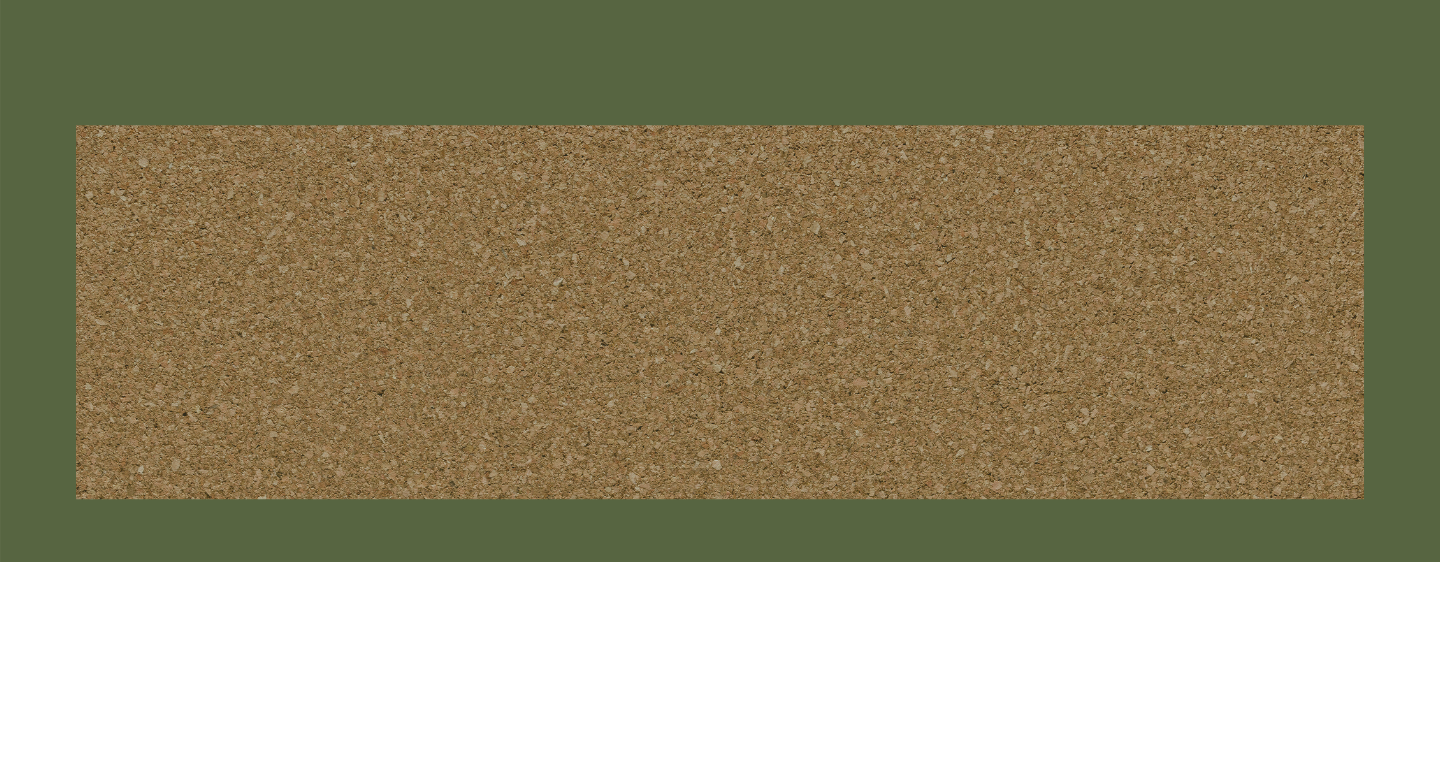
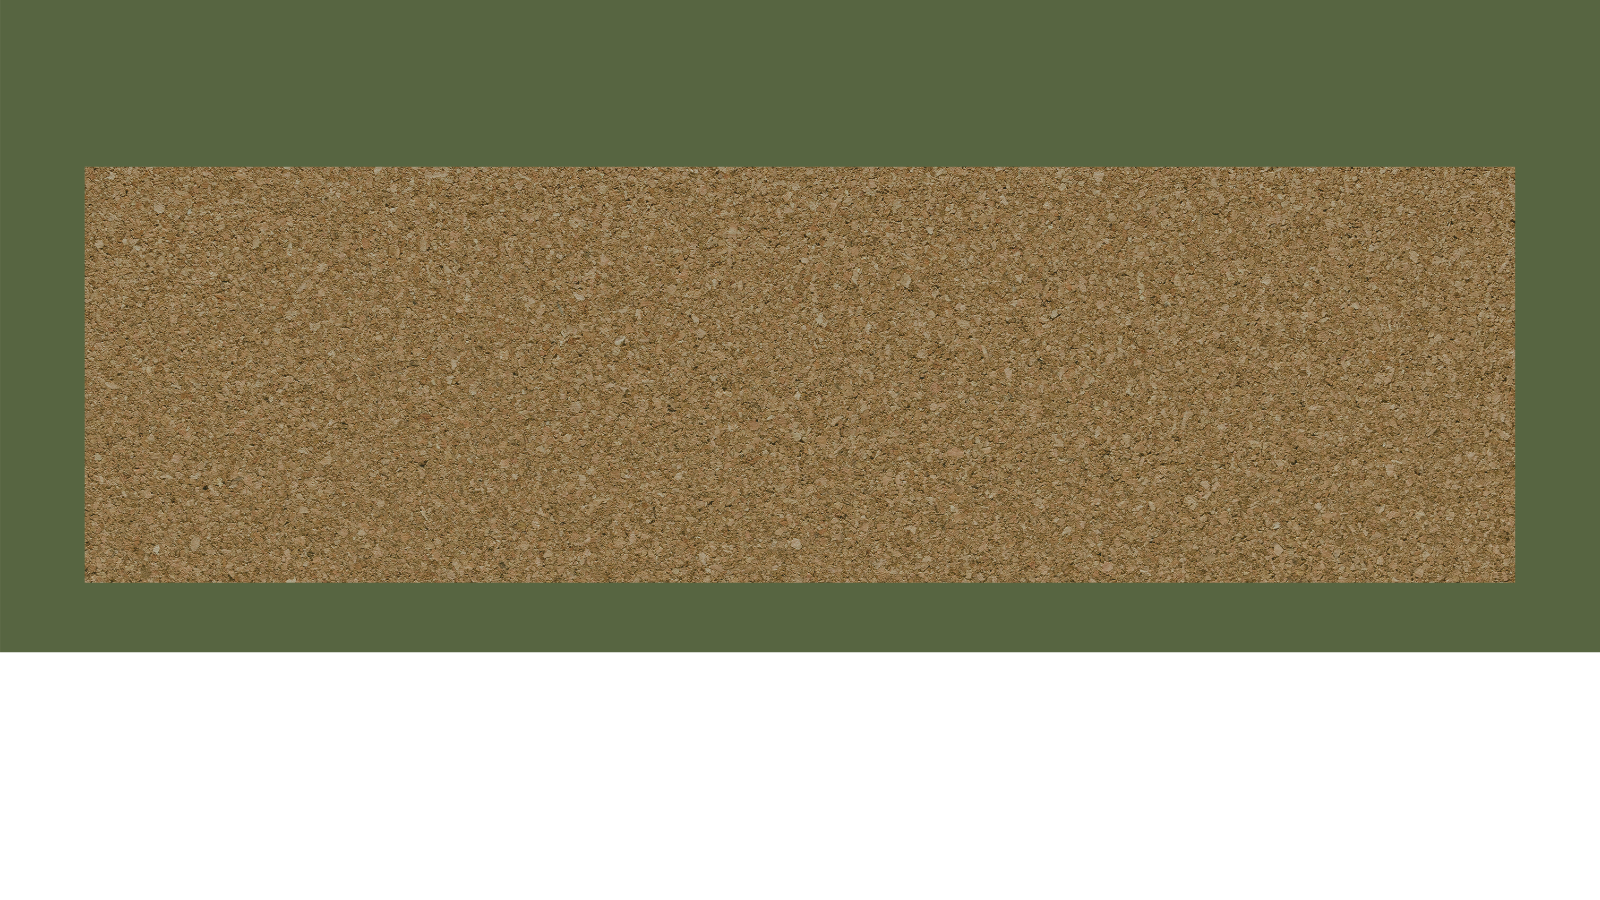
Removed background image and reworked code for a better responsive design

Changed region(s): [[0.0312, 0.1513, 0.9688, 0.6658], [0.0, 0.7263, 1.0, 0.7566]]

diff --git a/src/main/resources/static/css/index.css b/src/main/resources/static/css/index.css
@@ -1,4 +1,13 @@
 
+/*html {*/
+/*    width: 100%;*/
+/*    height: 100%;*/
+/*    margin: 0px;!important;*/
+/*    padding: 0px;!important;*/
+/*    overflow-x: hidden;*/
+/*}*/
+
+
 html {
     width: 100%;
     height: 100%;
@@ -7,82 +16,102 @@ html {
     overflow-x: hidden;
 }
 
-body.community {
-    background-image: url("/img/mobile-cork-bg.png");
-    margin: 0px;!important;
-    padding: 0px;!important;
-    /*box-sizing: content-box;*/
-    background-repeat: no-repeat;
-    background-size: cover;
-    box-sizing: inherit;
+/*body.community {*/
+/*    background-image: url("/img/lg-laptop-cork-bg.png");*/
+/*    margin: 0px;!important;*/
+/*    padding: 0px;!important;*/
+/*    !*box-sizing: content-box;*!*/
+/*    background-repeat: no-repeat;*/
+/*    background-size: contain;*/
+/*    !*box-sizing: inherit;*!*/
+/*}*/
+
+
+
+/*.social {*/
+
+/*    margin-left: 100px ;*/
+/*    margin-top: 15px;*/
+/*}*/
+.header-border {
+    height: 250px
 }
-
-
-
-.social {
-
-    margin-left: 100px ;
-    margin-top: 15px;
+.header-fill{
+    width: 300px;
+    height: 180px
 }
 
 .social-img {
-    width: 70%;
+    width: 100%;
 }
 
 
 /* Small devices (phones and pocket devices, 576 and up) */
-@media screen and (min-width:576px) {
+@media screen and (min-width:425px) {
+
+    .header-border {
+        height: 350px;
+    }
+
+   .header-fill{
+        width: 350px;
+        height: 265px;
+    }
+
+
 
 }
 
 /* Medium devices (tablets, 768px and up) */
 @media screen and (min-width:768px) {
-    body.community{
-        background-image: url("/img/tablet-cork-bg.png");
-    }
-
-    .social{
-        margin-left: 180px;
-        margin-top: 25px;
+    .header-fill{
+        width: 663px;
+        height: 235px;
+        text-align: center;
     }
     .social-img {
-
-        width: 75%;
+        width: 85%;
     }
 }
 
 /* Large devices (desktops, 992px and up) */
 @media screen and (min-width:992px) {
-    body.community{
-        background-image: url("/img/lap-bg.png.png");
-        background-repeat: no-repeat;
-        background-size: cover;
-    }
+    /*body.community{*/
+    /*    background-image: url("/img/lap-bg.png.png");*/
+    /*    background-repeat: no-repeat;*/
+    /*    background-size: cover;*/
+    /*}*/
 
-    .social {
-       margin-left: 280px;
-        margin-top: 45px;
-    }
+.header-fill{
+    width: 922px;
+    height: 250px;
+  }
+
     .social-img {
-        width: 70%;
+        width: 80%;
     }
 }
 
 /* Extra large devices (large desktops, 1200px and up) */
 @media screen and (min-width:1200px) {
-    body.community{
-        background-image: url("/img/lg-laptop-cork-bg.png");
-        background-repeat: no-repeat;
-        background-size: cover;
+    /*body.community{*/
+    /*    background-image: url("/img/lg-laptop-cork-bg.png");*/
+    /*    background-repeat: no-repeat;*/
+    /*    background-size: cover;*/
+    /*}*/
+
+    .header-border {
+        height: 490px
+    }
+
+    .header-fill{
+        width: 1632px;
+        height: 350px;
     }
 
 
-    .social {
-        margin-left: 380px ;
-        margin-top: 140px;
-    }
     .social-img {
-        width: 65%;
+        width: 60%;
     }
 
 
@@ -90,12 +119,35 @@ body.community {
 
 @media screen and (min-width:2200px) {
 
-    .social {
-        margin-left: 720px ;
-        margin-top: 230px;
+    .header-border {
+        height: 480px
     }
+
+    .header-fill{
+        width: 2299px;
+        height: 540px;
+    }
+
     .social-img {
-        width: 65%;
+        width: 75%;
+    }
+
+
+}
+
+@media screen and (min-width:2560px) {
+
+    .header-border {
+        height: 780px
+    }
+
+    .header-fill{
+        width: 2299px;
+        height: 540px;
+    }
+
+    .social-img {
+        width: 85%;
     }
 
 

diff --git a/src/main/resources/templates/posts/index.html b/src/main/resources/templates/posts/index.html
@@ -10,11 +10,14 @@
 <header><nav th:replace="fragments/navbar :: navbar"></nav></header>
 
 
-
-
+<section class="header-border d-flex justify-content-center align-items-center" style="background-color: #576541; ">
+    <div class="header-fill d-flex justify-content-center align-items-center" style="background-color: #876A3B;">
         <div class="social">
-                <img class="social-img" src="/img/social.png"/>
+            <img class="social-img" src="/img/Social-lg.png"/>
         </div>
+    </div>
+</section>
+
 
 <div>
     <div th:each="post : ${posts}">
